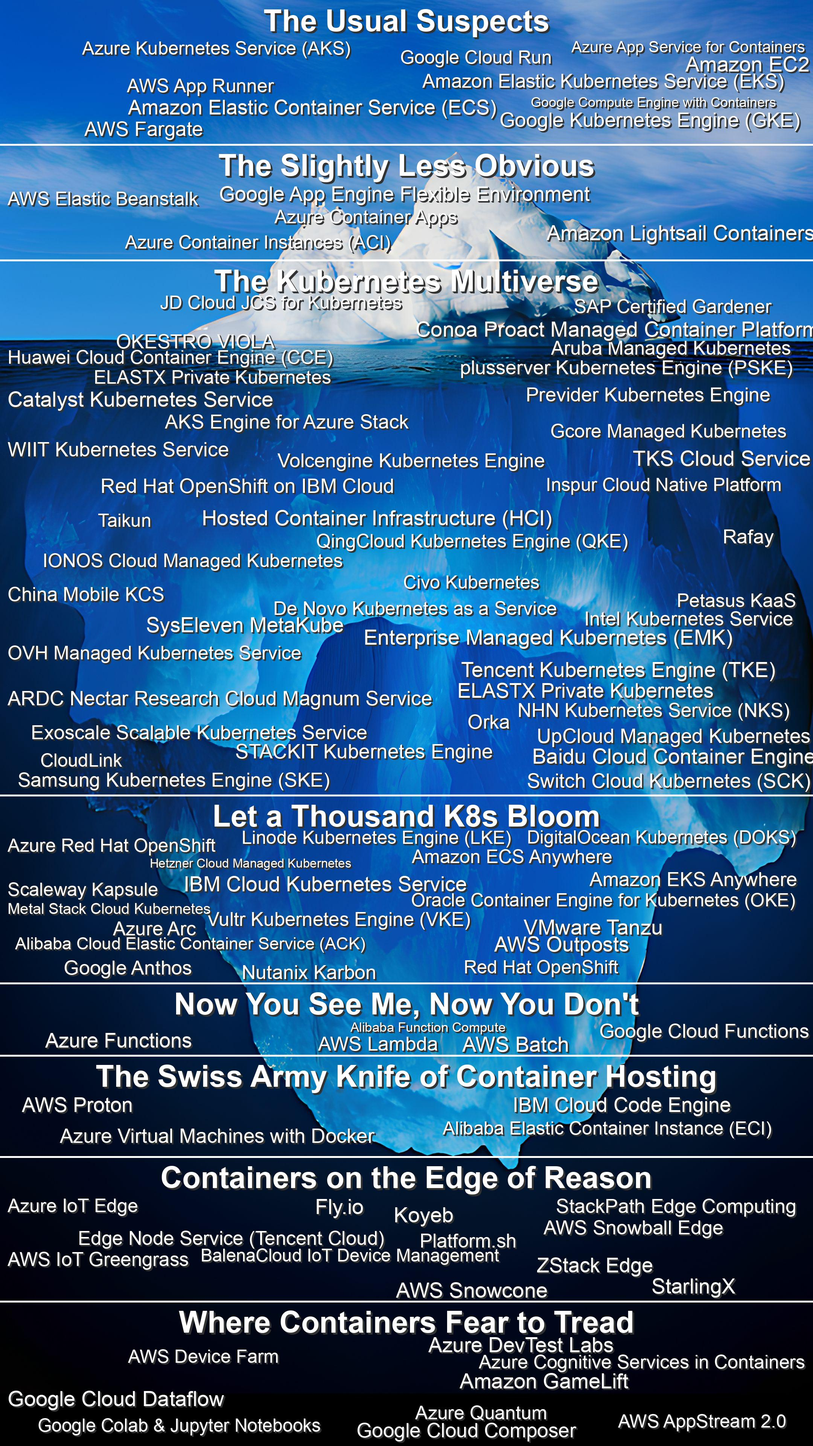
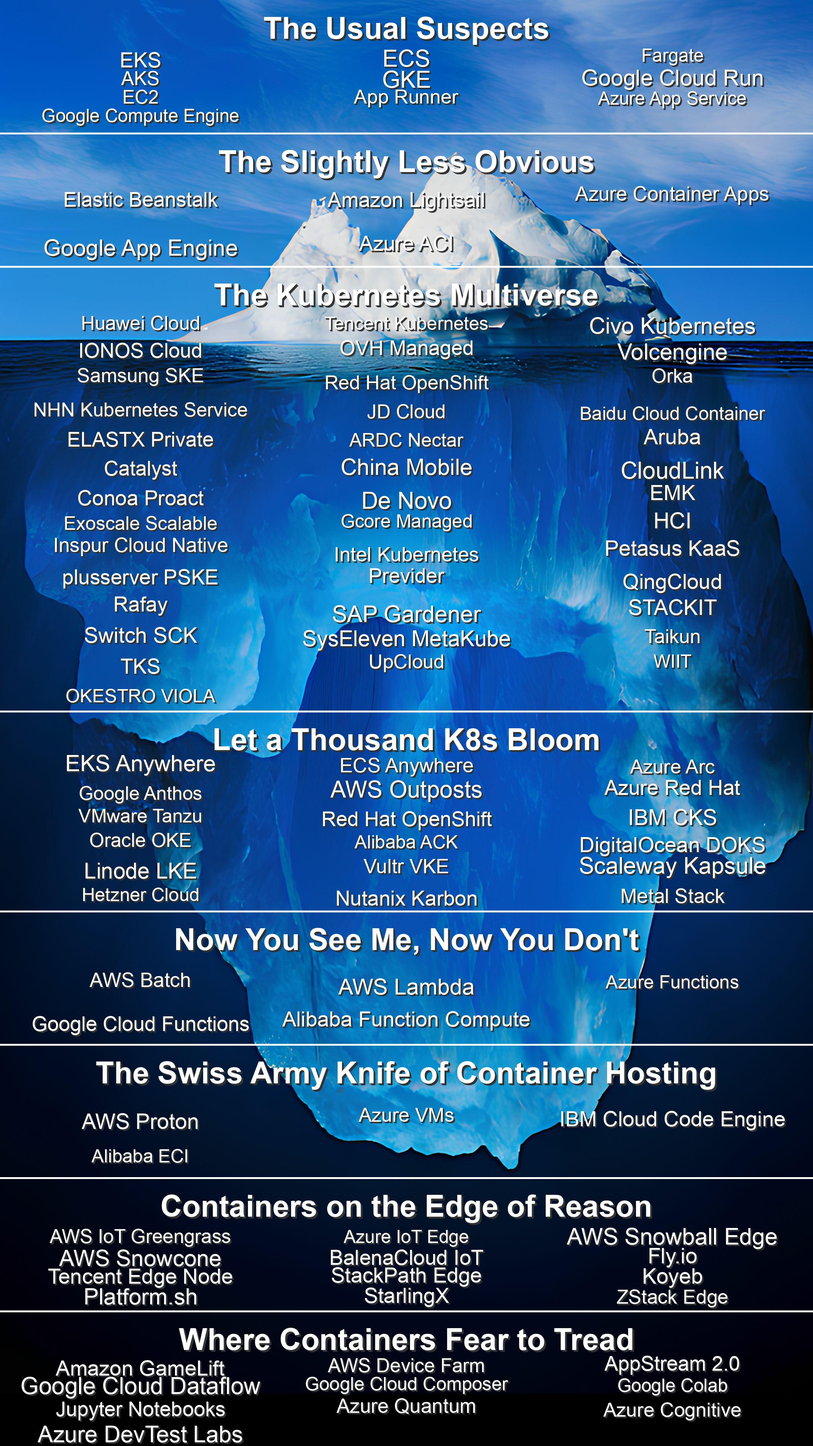
Update blog post content and replace iceberg image for better clarity and relevance.

diff --git a/content/blog/cursed-container-iceberg/index.md b/content/blog/cursed-container-iceberg/index.md
@@ -13,9 +13,9 @@ social:
     linkedin:
 
 ---
-If a computer can be connected to the internet, someone has tried to run a container on it. After diving deep into the [Fargate vs EC2](/) debate for EKS deployments, I discovered this isn't just a joke - it's practically a law of nature. From quantum computers to smart toasters, from phones in AWS racks to CI pipelines, there are many ways to deploy containers.
+If a computer can be connected to the internet, someone has tried to run a container on it. From quantum computers to smart toasters, from phones in AWS racks to CI pipelines, there's many ways to deploy containers. While most people only know about the mainstream cloud providers at the surface, there's actually a vast world of increasingly unusual and specialized options beneath.
 
-So here's my guide to the container deployment iceberg - from the familiar EKS and ECS at the surface – down to the dark depths where containers run in places they probably shouldn't.
+So here's a guide to the cloud container deployment obscurity - from the familiar EKS and ECS at the surface – down to the dark depths where containers run in places they probably shouldn't.
 
 <!--more-->
 
